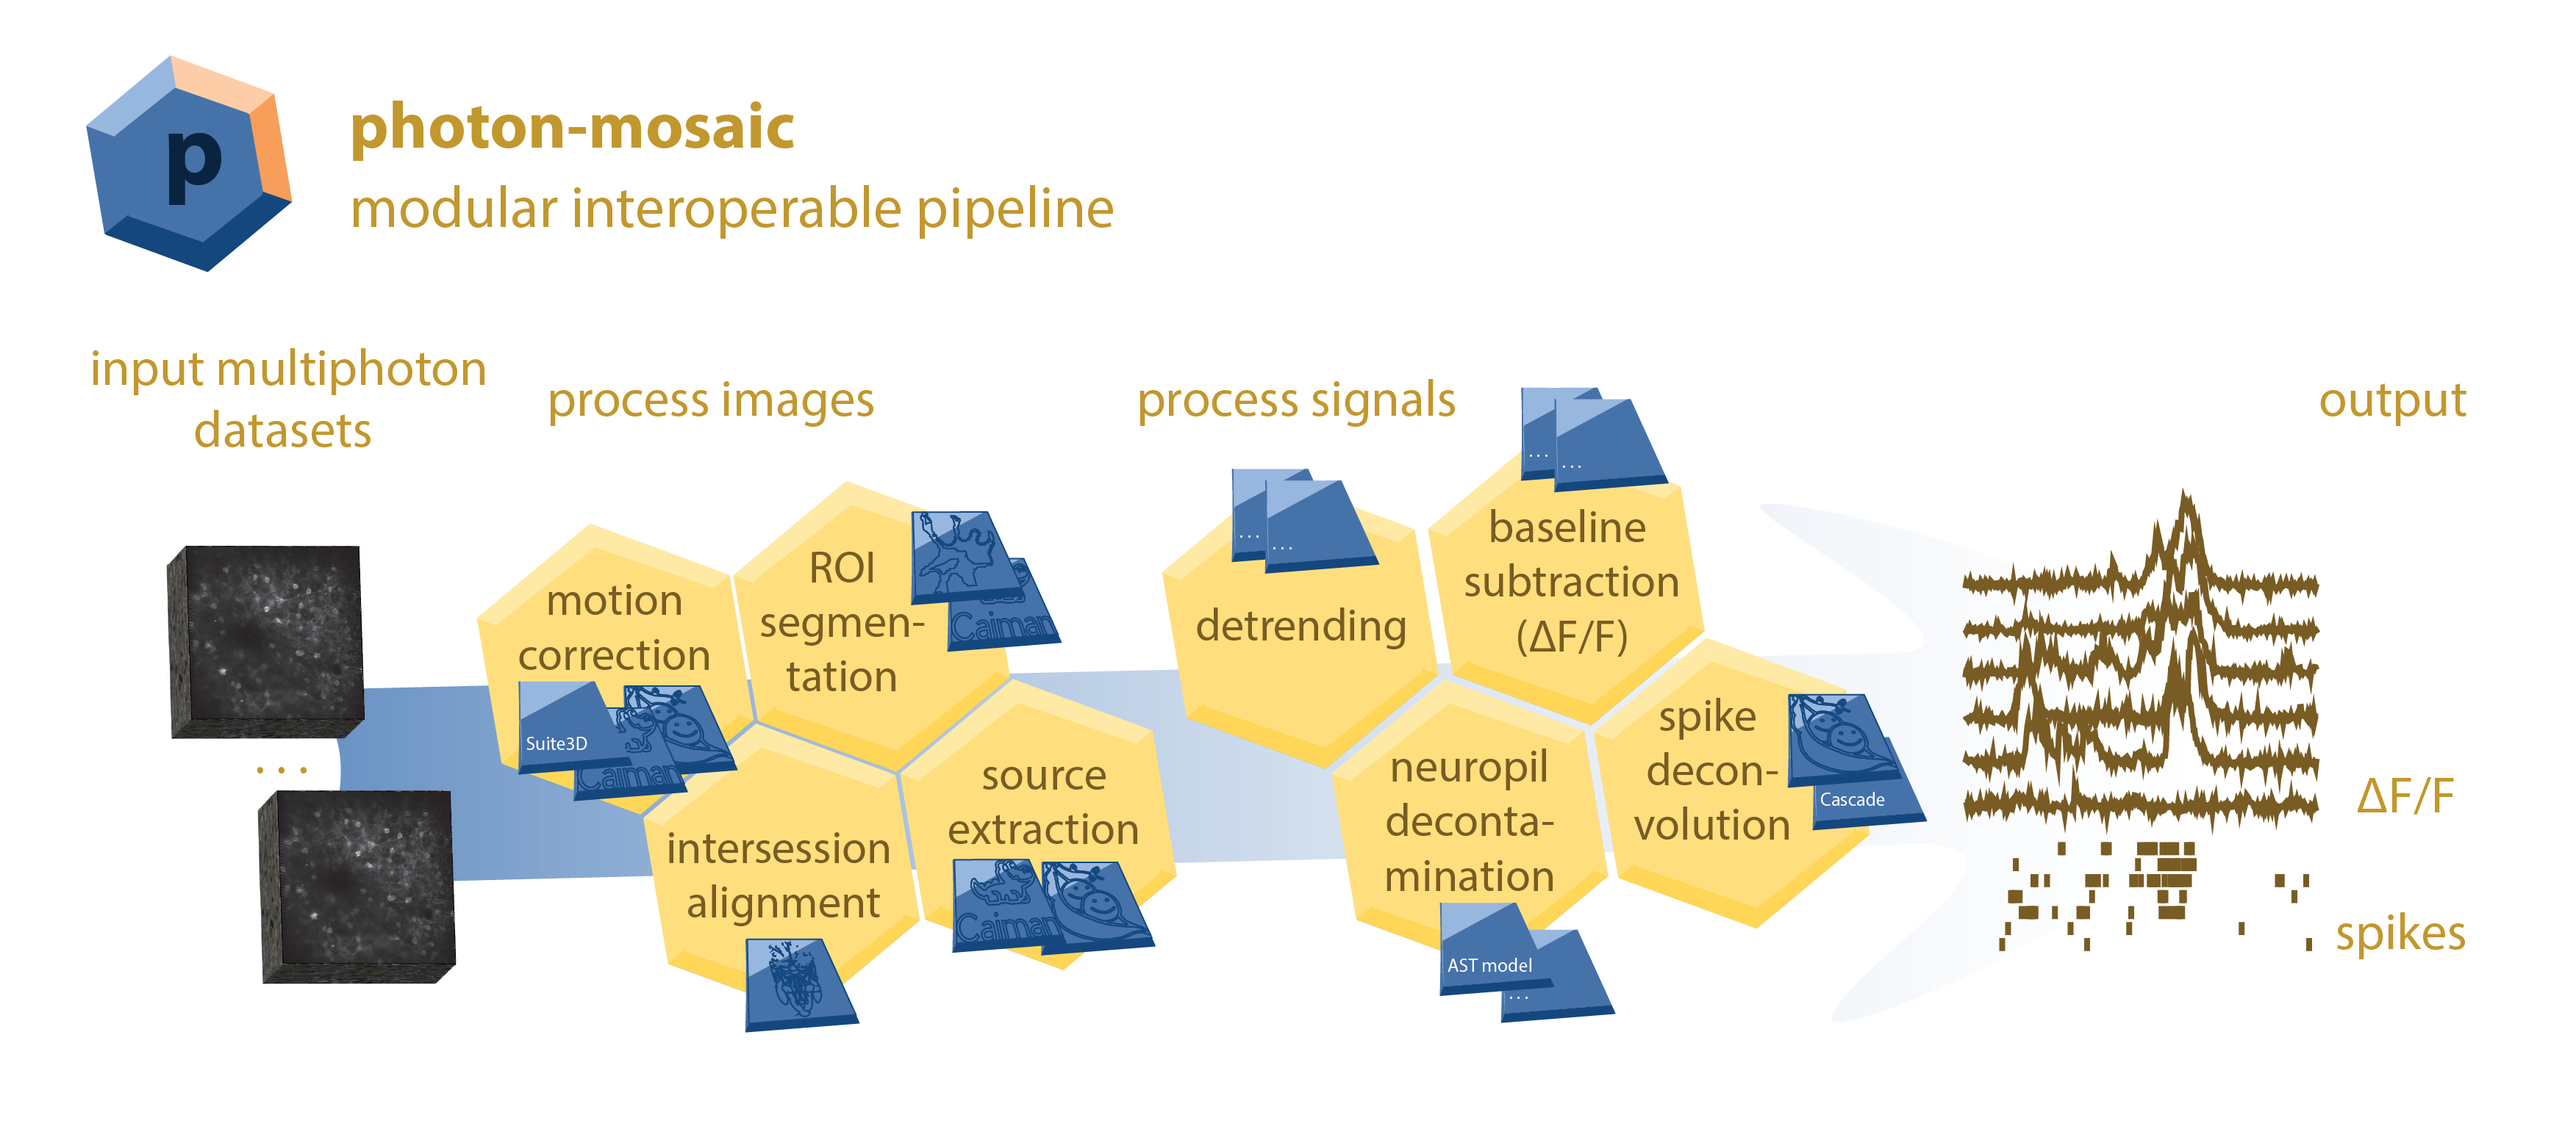
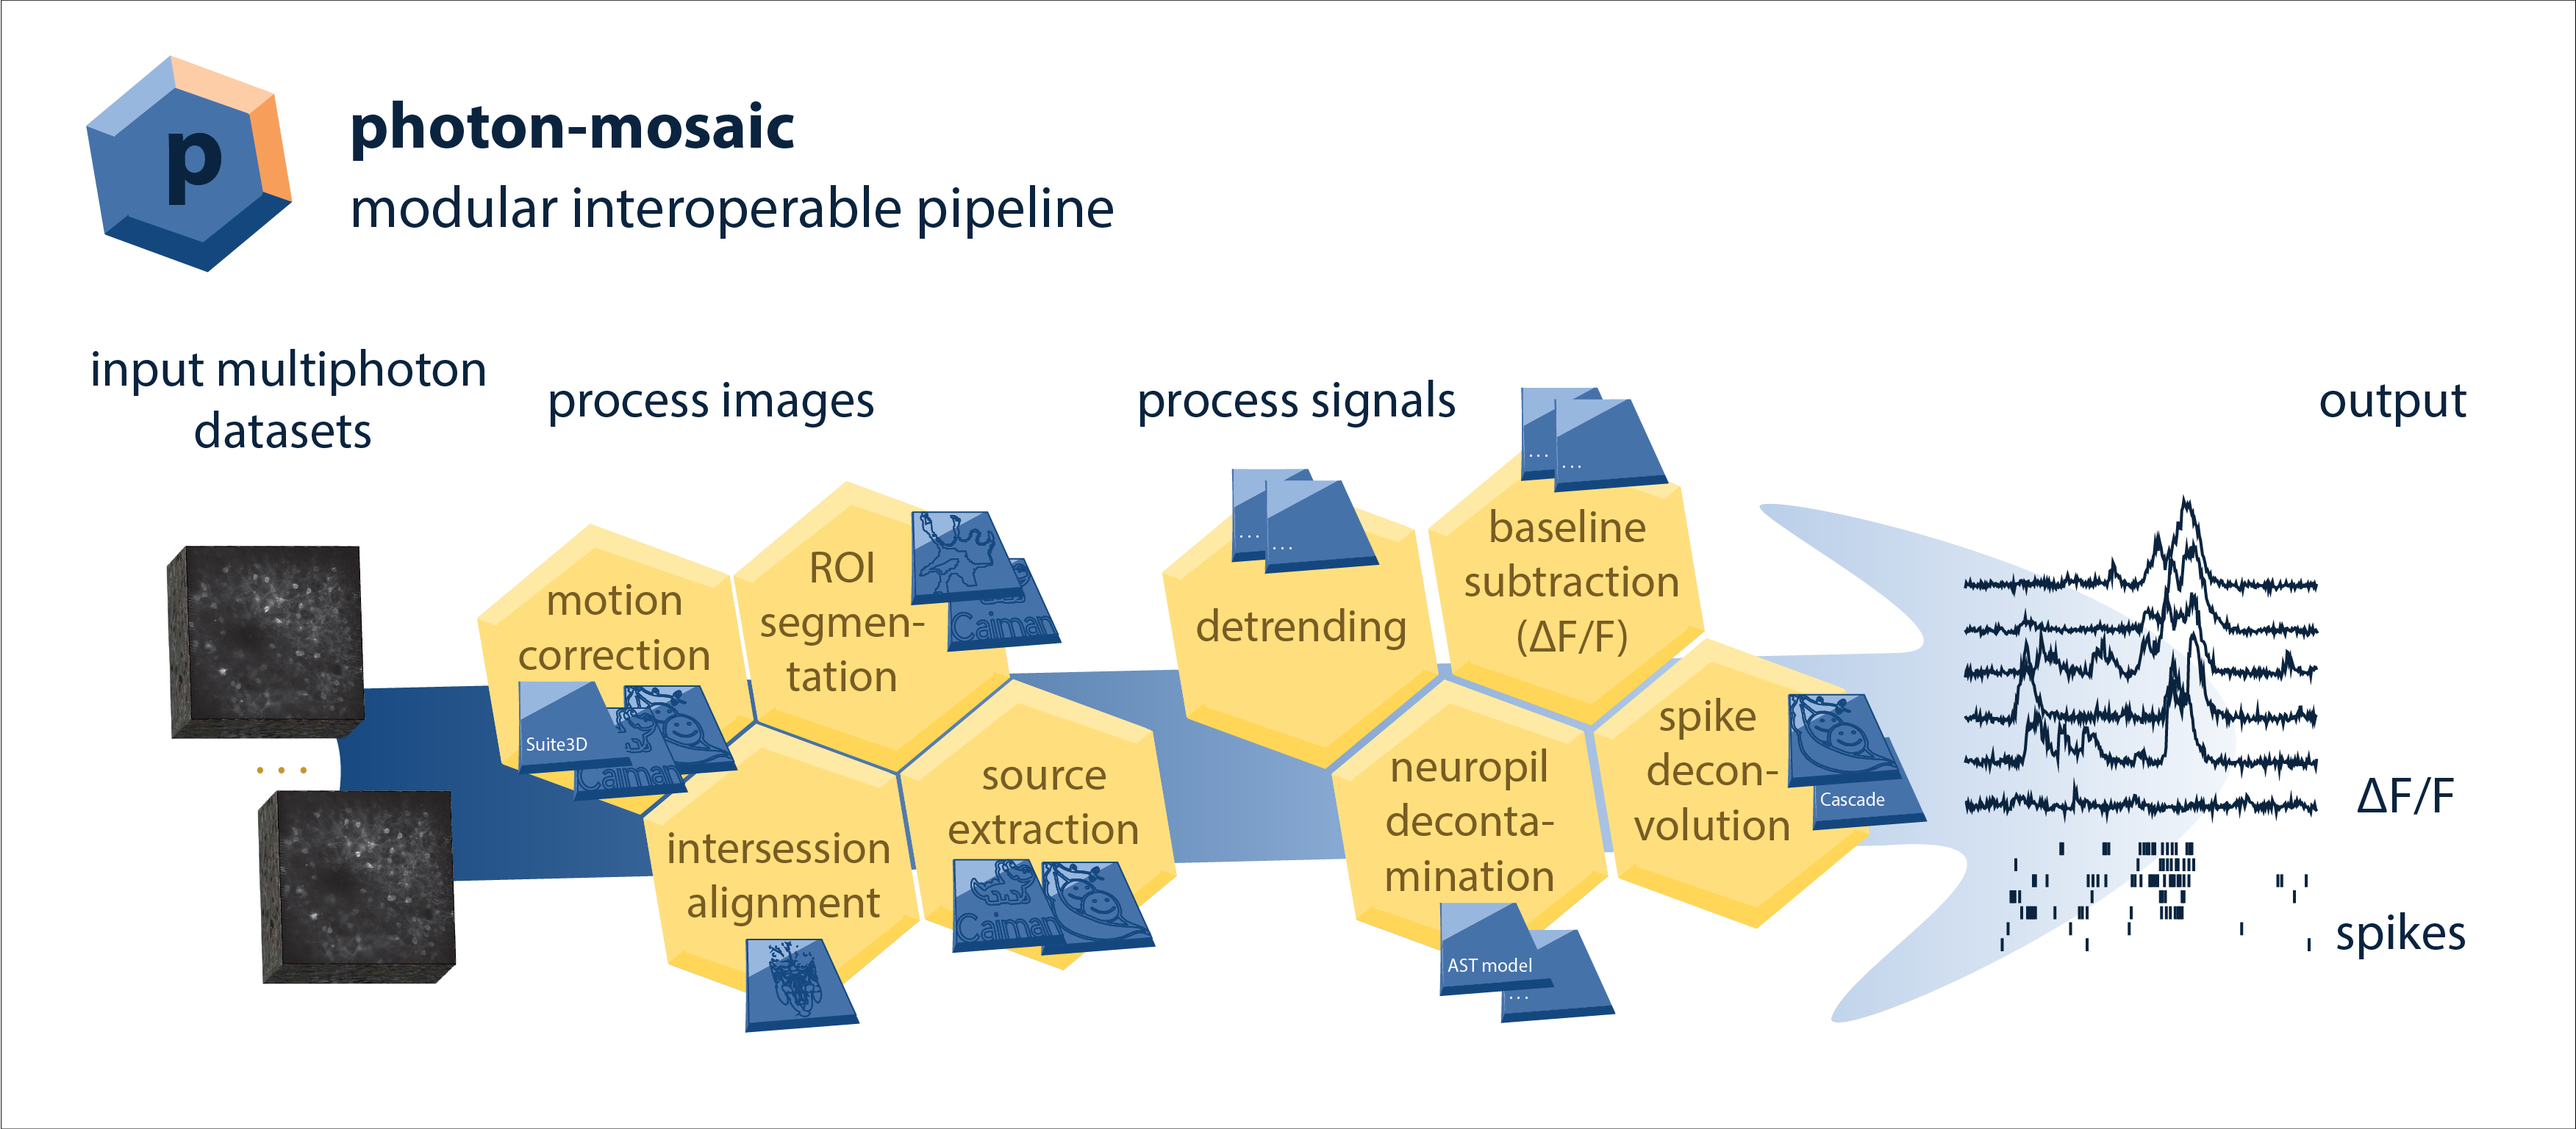
Update figure, update links to orgs, don't focus on NIU for the pipeline package

diff --git a/profile/README.md b/profile/README.md
@@ -1,11 +1,11 @@
 # <img src="./logo.png" alt="photon-mosaic logo" width="36" style="vertical-align: middle; margin-right:8px"> `photon-mosaic`
 
-`photon-mosaic` is a collaborative project that aims to standardise multiphoton image analysis in neuroscience. Development is currently led by the [Neuroinformatics Unit](https://github.com/neuroinformatics-unit), the [Allen Institute for Neural Dynamics](https://github.com/AllenNeuralDynamics) and the [International Brain Laboratory](https://www.internationalbrainlab.com/).
+`photon-mosaic` is a collaborative project that aims to standardise multiphoton image analysis in neuroscience. Development is currently led by the [Neuroinformatics Unit](https://neuroinformatics.dev/), the [Allen Institute for Neural Dynamics](https://alleninstitute.org/division/neural-dynamics/) and the [International Brain Laboratory](https://www.internationalbrainlab.com/).
 
 <img src="././general_schematic.png">
 
 We are currently working on two repositories:
 
-- [`photon-mosaic`](https://github.com/neuroinformatics-unit/photon-mosaic) — a modular, extensible Python API package that handles all the steps required for multiphoton imaging, from image processing to signal processing, up to the extraction of ΔF/F and spikes. We aim to be inclusive of different algorithms at every step of the analysis and to ensure interoperability between tools built by different researchers. We also aim to provide tutorials, documentation, and high test coverage in order to guarantee reproducibility and standardisation, and to keep the analysis optimised from a memory-consumption perspective. Our architectural foundations are inspired by [SpikeInterface](https://github.com/SpikeInterface/spikeinterface).
+- [`photon-mosaic`](https://github.com/neuroinformatics-unit/photon-mosaic): a modular, extensible Python API package that handles all the steps required for multiphoton imaging, from image processing to signal processing, up to the extraction of ΔF/F and spikes. We aim to be inclusive of different algorithms at every step of the analysis and to ensure interoperability between tools built by different researchers. We also aim to provide tutorials, documentation, and high test coverage in order to guarantee reproducibility and standardisation, and to keep the analysis optimised from a memory-consumption perspective. Our architectural foundations are inspired by [SpikeInterface](https://spikeinterface.readthedocs.io/).
 
-- [`photon-mosaic-pipeline`](https://github.com/neuroinformatics-unit/photon-mosaic-pipeline) — a NIU-developed workflow package, based on [Snakemake](https://snakemake.readthedocs.io/), that automates analysis steps on HPC systems, leverages GPUs, and standardises outputs using the [NeuroBlueprint](https://neuroblueprint.neuroinformatics.dev/) format. It currently depends only on external packages, but we plan to integrate it with the `photon-mosaic` library in the future.
+- [`photon-mosaic-pipeline`](https://github.com/neuroinformatics-unit/photon-mosaic-pipeline): a workflow package, based on [Snakemake](https://snakemake.readthedocs.io/), that automates analysis steps on HPC systems, leverages GPUs, and standardises outputs using the [NeuroBlueprint](https://neuroblueprint.neuroinformatics.dev/) format. It currently depends only on external packages, but we plan to integrate it with the `photon-mosaic` library in the future.
